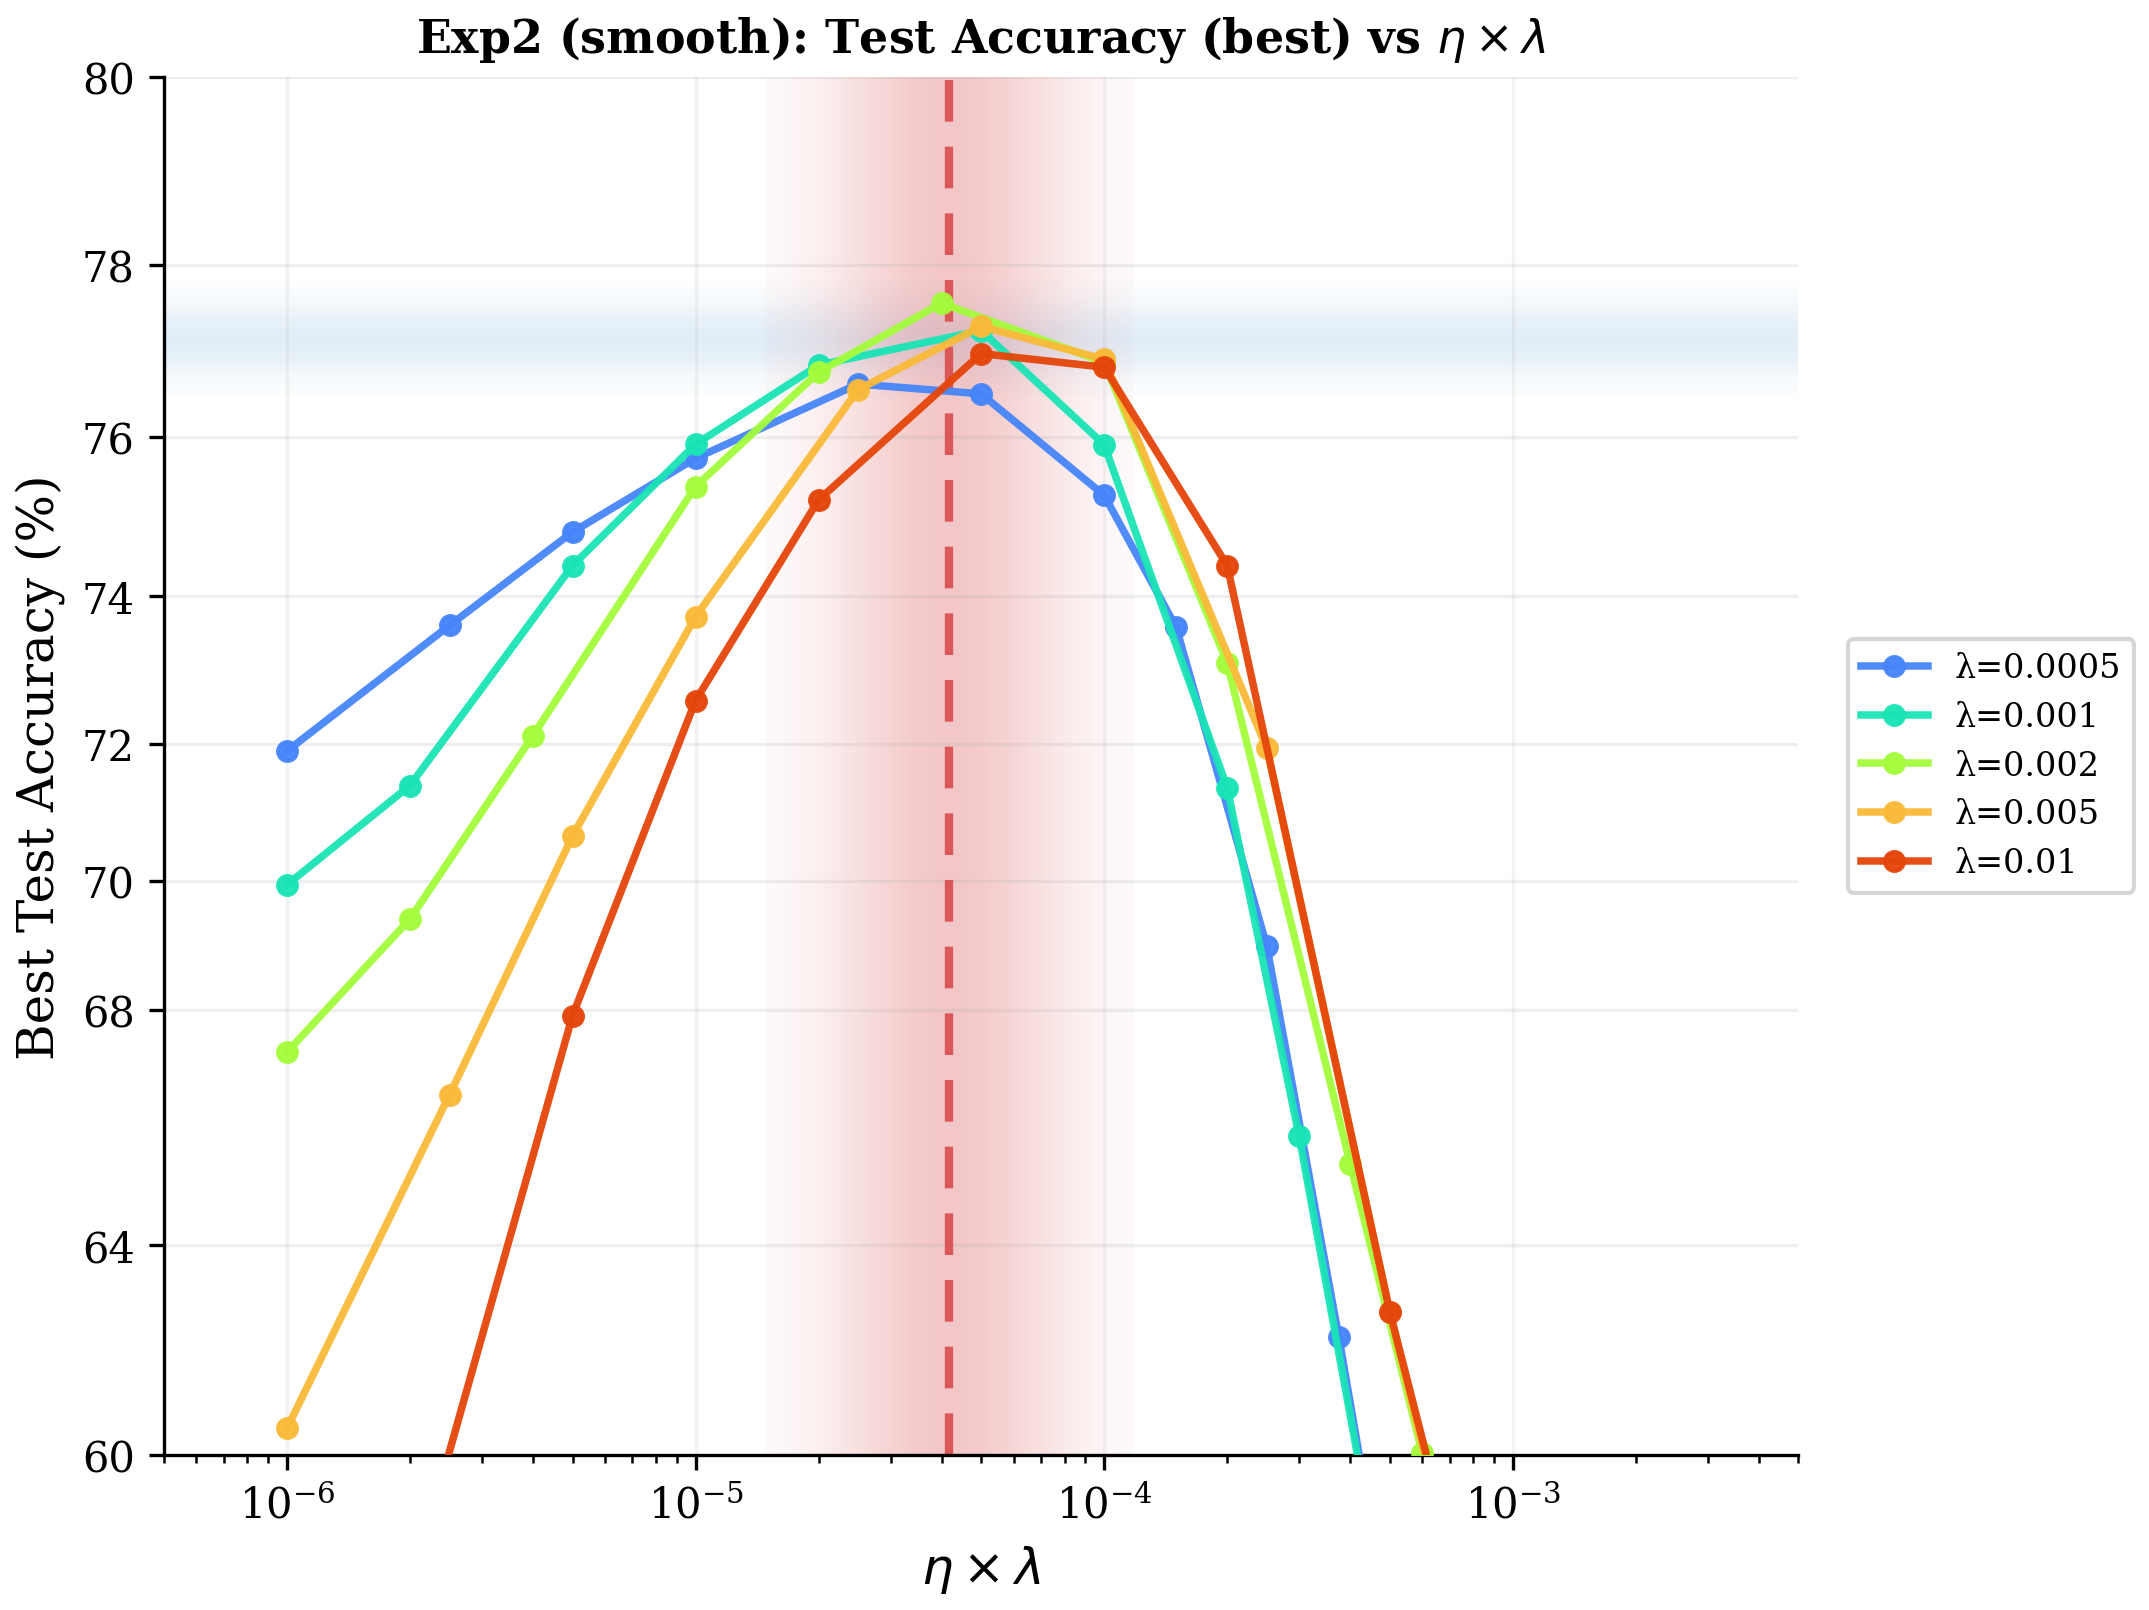
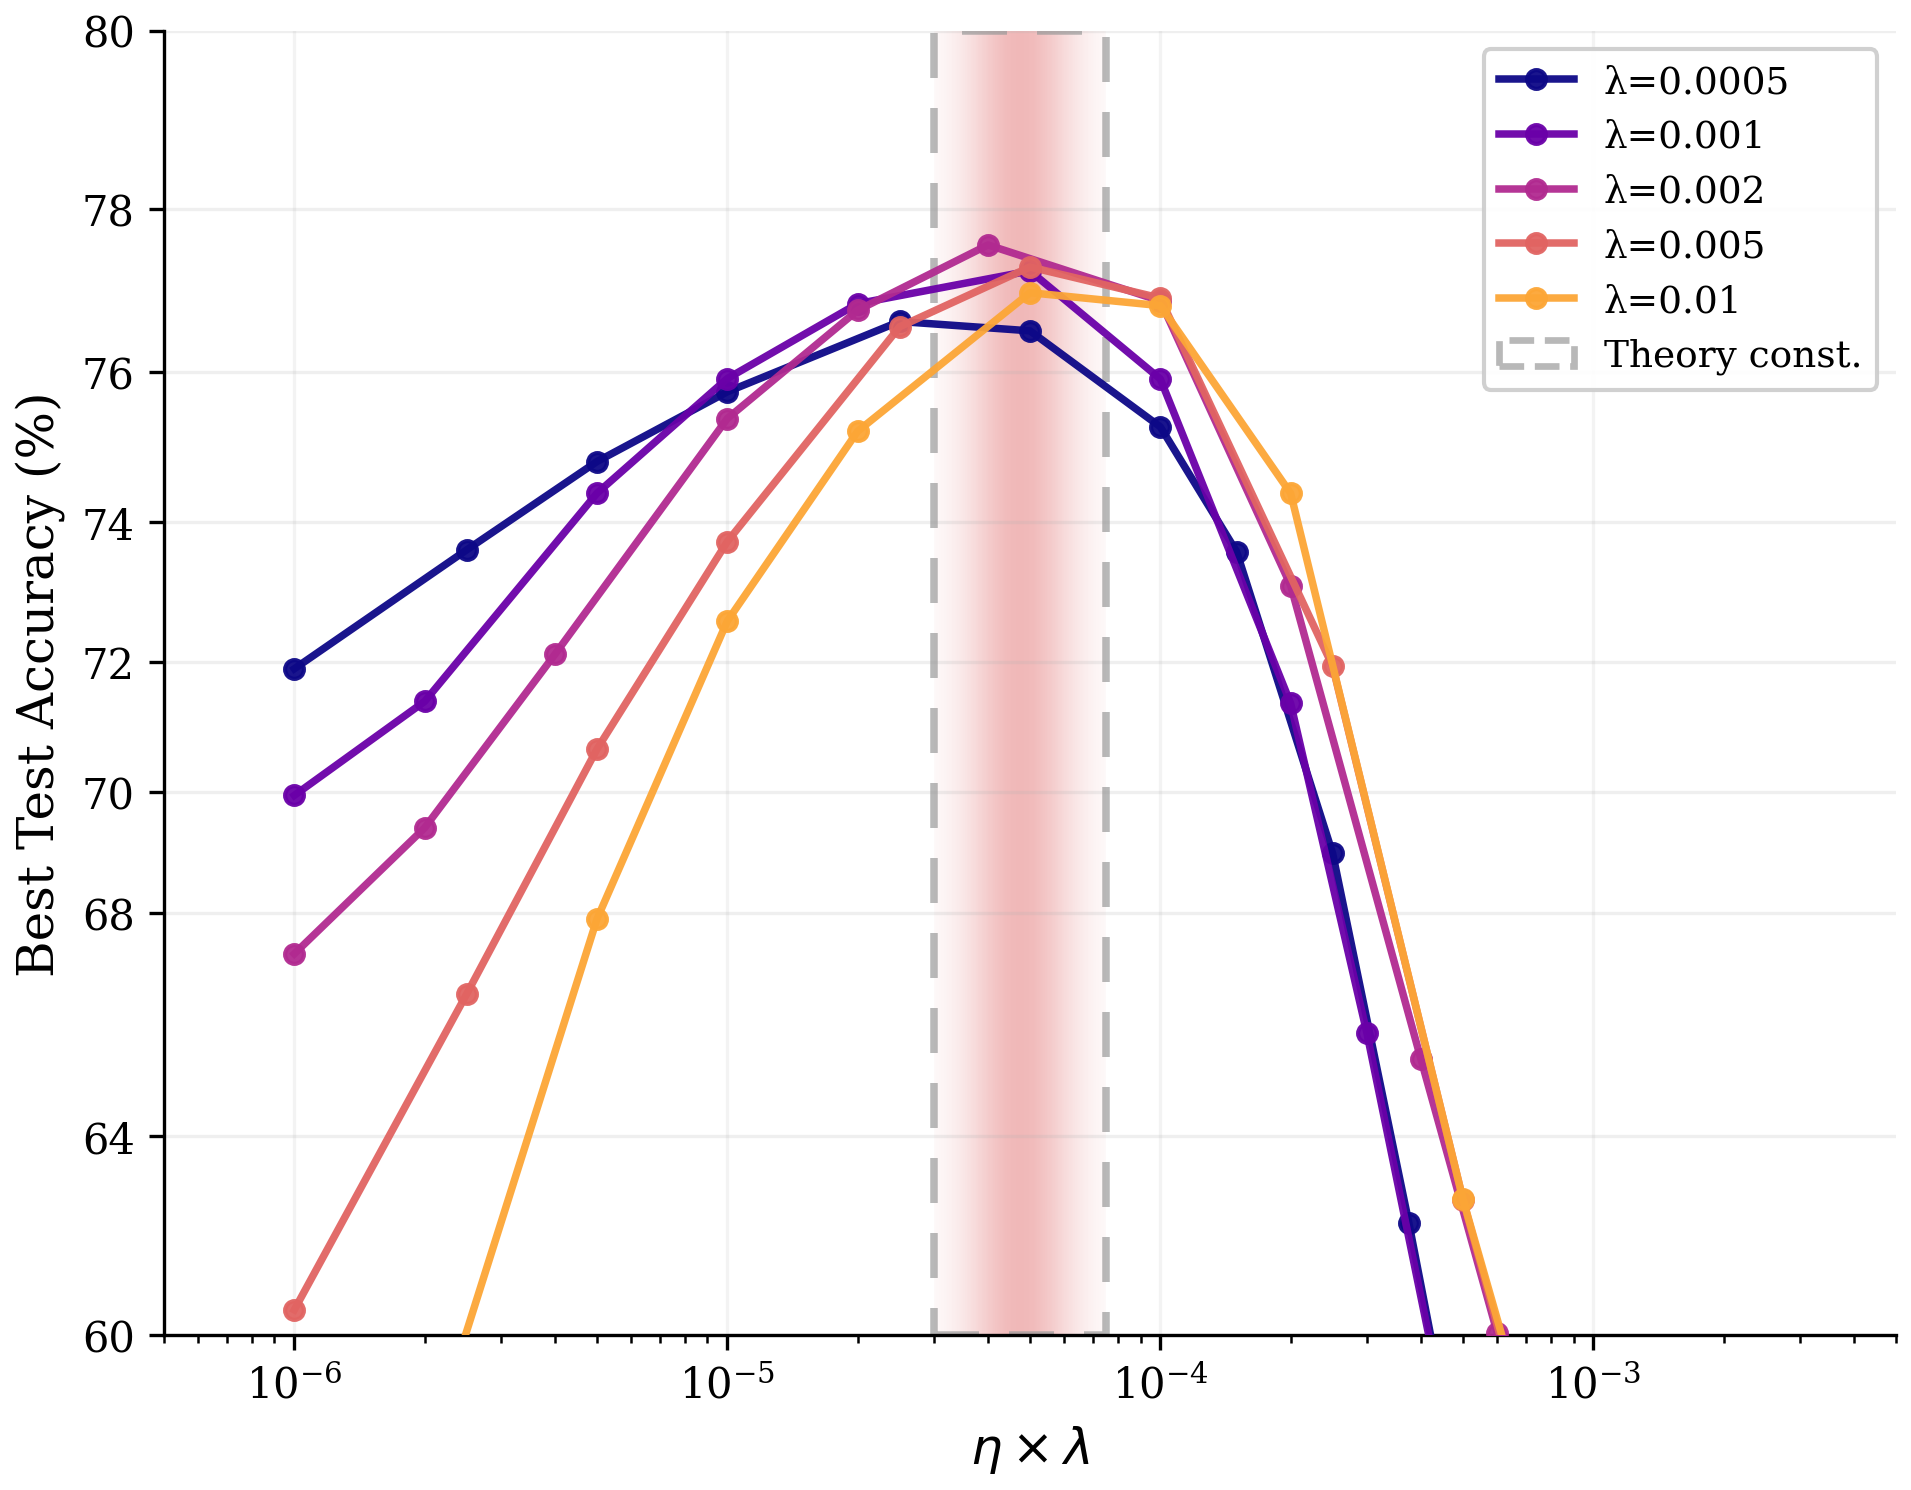
update figs

Changed region(s): [[0.0, 0.0, 0.988, 0.9879], [0.8645, 0.4013, 1.0, 0.5557], [0.1235, 0.5866, 0.1852, 0.6792]]

diff --git a/rebuttal/generate_figures.py b/rebuttal/generate_figures.py
@@ -303,6 +303,18 @@ FOCUS_VIEW_LO = 1e-6
 FOCUS_VIEW_HI = 1e-2
 FOCUS_WDS = [1e-4, 5e-4, 1e-3, 2e-3, 5e-3, 1e-2, 5e-2]
 
+# Custom palette per λ, used by the focused smooth plot. Plasma-style
+# scientific gradient: cool→warm follows the magnitude of λ, so the
+# colour ordering itself encodes the value (also colour-blind friendly
+# and legible in B/W print).
+FOCUS_LAMBDA_COLORS = {
+    5e-4: '#0D0887',  # deep ultramarine
+    1e-3: '#6A00A8',  # deep purple
+    2e-3: '#B12A90',  # magenta — visual centre
+    5e-3: '#E16462',  # coral red
+    1e-2: '#FCA636',  # bright orange
+}
+
 
 def _piecewise_loss_scale(y_vals):
     """Return (forward, inverse) callables for the rebuttal's piecewise y-scale:
@@ -472,15 +484,23 @@ def plot_exp2_focused_smooth(ext_dfs,
                              envelope_color='#7a808a',
                              envelope_alpha=0.28,
                              envelope_smooth_sigma=0.18,
-                             show_const_band=True,
-                             const_band_color='#5da0d3',
-                             const_band_alpha=0.18,
+                             show_const_band=False,
+                             const_band_color='#bcd2e3',
+                             const_band_alpha=0.55,
                              const_band_pad=0.20,
                              show_const_xband=True,
                              const_xband_color='#d94545',
-                             const_xband_alpha=0.30,
+                             const_xband_alpha=0.38,
                              const_xband_pad=0.30,
-                             show_optimum_cross=True):
+                             show_optimum_cross=False,
+                             show_peak_rect=True,
+                             peak_rect_x=(3e-5, 7.5e-5),
+                             peak_rect_color='#9a9a9a',
+                             peak_rect_alpha=0.7,
+                             peak_rect_label='Theory const.',
+                             const_band_label='Best acc',
+                             show_title=False,
+                             legend_loc='upper right'):
     """Smooth, "publication-style" version of the best-acc focused plot.
 
     - Drops the requested λ values (default: 0.05, 0.0001).
@@ -503,7 +523,17 @@ def plot_exp2_focused_smooth(ext_dfs,
     cmap = plt.get_cmap('turbo', max(len(FOCUS_WDS), 2))
     color_idx = {w: i for i, w in enumerate(FOCUS_WDS)}
 
-    fig, ax = plt.subplots(figsize=(7.4, 5.6))
+    def _curve_color(wd_val):
+        for lam, c in FOCUS_LAMBDA_COLORS.items():
+            if np.isclose(wd_val, lam):
+                return c
+        ci = color_idx.get(
+            next((fw for fw in FOCUS_WDS if np.isclose(wd_val, fw)), wd_val),
+            len(FOCUS_WDS) // 2,
+        )
+        return cmap(ci)
+
+    fig, ax = plt.subplots(figsize=(6.6, 5.2))
 
     # Gradient background: gray outside [white_lo, white_hi], white inside.
     # Implement via a smooth log-x raised-cosine envelope so the transition
@@ -552,11 +582,7 @@ def plot_exp2_focused_smooth(ext_dfs,
                .dropna(subset=[metric]))
         if len(sub) < 2:
             continue
-        ci = color_idx.get(
-            next((fw for fw in FOCUS_WDS if np.isclose(wd, fw)), wd),
-            len(FOCUS_WDS) // 2,
-        )
-        color = cmap(ci)
+        color = _curve_color(wd)
         log_x = np.log10(sub['eta_lambda'].values)
         y = sub[metric].values
         order = np.argsort(log_x)
@@ -636,29 +662,24 @@ def plot_exp2_focused_smooth(ext_dfs,
 
         if show_const_band:
             half_w_y = 0.5 * (peak_y_hi - peak_y_lo) + const_band_pad
-            n_strip_y = 100
-            ygrid = np.linspace(peak_y_mean - half_w_y,
-                                peak_y_mean + half_w_y, n_strip_y + 1)
-            ymids = 0.5 * (ygrid[:-1] + ygrid[1:])
-            strength_y = _gradient_strip(ymids, peak_y_mean, half_w_y)
-            r, g, b = to_rgb(const_band_color)
-            xs_edge = np.array([view_lo, view_hi])
-            X, Y = np.meshgrid(xs_edge, ygrid)
-            rgba_y = np.zeros((n_strip_y, 1, 4))
-            rgba_y[:, 0, 0] = r
-            rgba_y[:, 0, 1] = g
-            rgba_y[:, 0, 2] = b
-            rgba_y[:, 0, 3] = strength_y * const_band_alpha
-            ax.pcolormesh(X, Y, rgba_y, shading='flat',
-                          zorder=1, rasterized=True)
+            ax.axhspan(peak_y_mean - half_w_y, peak_y_mean + half_w_y,
+                       facecolor=const_band_color, edgecolor='none',
+                       alpha=const_band_alpha, zorder=1)
 
         if show_const_xband:
-            half_w_x = 0.5 * (peak_x_hi - peak_x_lo) + const_xband_pad
+            if show_peak_rect:
+                log_rect_lo = np.log10(peak_rect_x[0])
+                log_rect_hi = np.log10(peak_rect_x[1])
+                xband_center = 0.5 * (log_rect_lo + log_rect_hi)
+                half_w_x = 0.5 * (log_rect_hi - log_rect_lo)
+            else:
+                xband_center = peak_x_mean
+                half_w_x = 0.5 * (peak_x_hi - peak_x_lo) + const_xband_pad
             n_strip_x = 140
-            xgrid = np.linspace(peak_x_mean - half_w_x,
-                                peak_x_mean + half_w_x, n_strip_x + 1)
+            xgrid = np.linspace(xband_center - half_w_x,
+                                xband_center + half_w_x, n_strip_x + 1)
             xmids = 0.5 * (xgrid[:-1] + xgrid[1:])
-            strength_x = _gradient_strip(xmids, peak_x_mean, half_w_x)
+            strength_x = _gradient_strip(xmids, xband_center, half_w_x)
             r, g, b = to_rgb(const_xband_color)
             xs_edge_x = np.power(10.0, xgrid)
             ys_edge_x = np.array([ylim[0], ylim[1]])
@@ -674,8 +695,22 @@ def plot_exp2_focused_smooth(ext_dfs,
         if show_optimum_cross:
             ax.axvline(float(np.power(10.0, peak_x_mean)),
                        color=const_xband_color,
-                       linestyle=(0, (5, 3)),
-                       linewidth=2.0, alpha=0.85, zorder=2)
+                       linestyle=(0, (0.6, 0.75)),
+                       linewidth=8.0, alpha=0.425, zorder=2)
+
+    if show_peak_rect:
+        from matplotlib.patches import Rectangle
+        rx_lo, rx_hi = peak_rect_x
+        rect = Rectangle((rx_lo, ylim[0]),
+                         rx_hi - rx_lo,
+                         ylim[1] - ylim[0],
+                         fill=False,
+                         edgecolor=peak_rect_color,
+                         linestyle=(0, (6, 4)),
+                         linewidth=1.8,
+                         alpha=peak_rect_alpha,
+                         zorder=2)
+        ax.add_patch(rect)
 
     ax.set_xscale('log')
     ax.set_xlim(view_lo, view_hi)
@@ -696,20 +731,32 @@ def plot_exp2_focused_smooth(ext_dfs,
             return rf'10^{{{int(round(e))}}}'
         m, ex = f'{v:.0e}'.split('e')
         return rf'{int(m)}\!\times\!10^{{{int(ex)}}}'
-    if band_style == 'none':
-        ax.set_title(rf'Exp2 (smooth): {title_metric} vs $\eta \times \lambda$',
-                     fontsize=11, fontweight='bold')
-    else:
-        band_label = ({'middle_gray': 'gray band',
-                       'middle_red':  'highlight band'}
-                      .get(band_style, 'white band'))
-        ax.set_title(rf'Exp2 (smooth): {title_metric} vs $\eta \times \lambda$ '
-                     rf'({band_label} $[{_fmt_pow10(white_lo)},\,{_fmt_pow10(white_hi)}]$)',
-                     fontsize=11, fontweight='bold')
+    if show_title:
+        if band_style == 'none':
+            ax.set_title(rf'Exp2 (smooth): {title_metric} vs $\eta \times \lambda$',
+                         fontsize=11, fontweight='bold')
+        else:
+            band_label = ({'middle_gray': 'gray band',
+                           'middle_red':  'highlight band'}
+                          .get(band_style, 'white band'))
+            ax.set_title(rf'Exp2 (smooth): {title_metric} vs $\eta \times \lambda$ '
+                         rf'({band_label} $[{_fmt_pow10(white_lo)},\,{_fmt_pow10(white_hi)}]$)',
+                         fontsize=11, fontweight='bold')
     ax.grid(True, which='major', axis='y', alpha=0.20)
     ax.grid(True, which='major', axis='x', alpha=0.15)
-    ax.legend(fontsize=8, ncol=1, loc='center left',
-              bbox_to_anchor=(1.02, 0.5), frameon=True)
+
+    from matplotlib.patches import Patch
+    handles, labels = ax.get_legend_handles_labels()
+    if show_const_band:
+        handles.append(Patch(facecolor=const_band_color,
+                             alpha=const_band_alpha,
+                             edgecolor='none', label=const_band_label))
+    if show_peak_rect:
+        handles.append(Patch(facecolor='none', edgecolor=peak_rect_color,
+                             linestyle='--', linewidth=1.6,
+                             alpha=peak_rect_alpha, label=peak_rect_label))
+    ax.legend(handles=handles, fontsize=9, ncol=1, loc=legend_loc,
+              frameon=True, framealpha=0.92)
     fig.tight_layout()
     fig.savefig(OUT / out_name)
     plt.close(fig)
